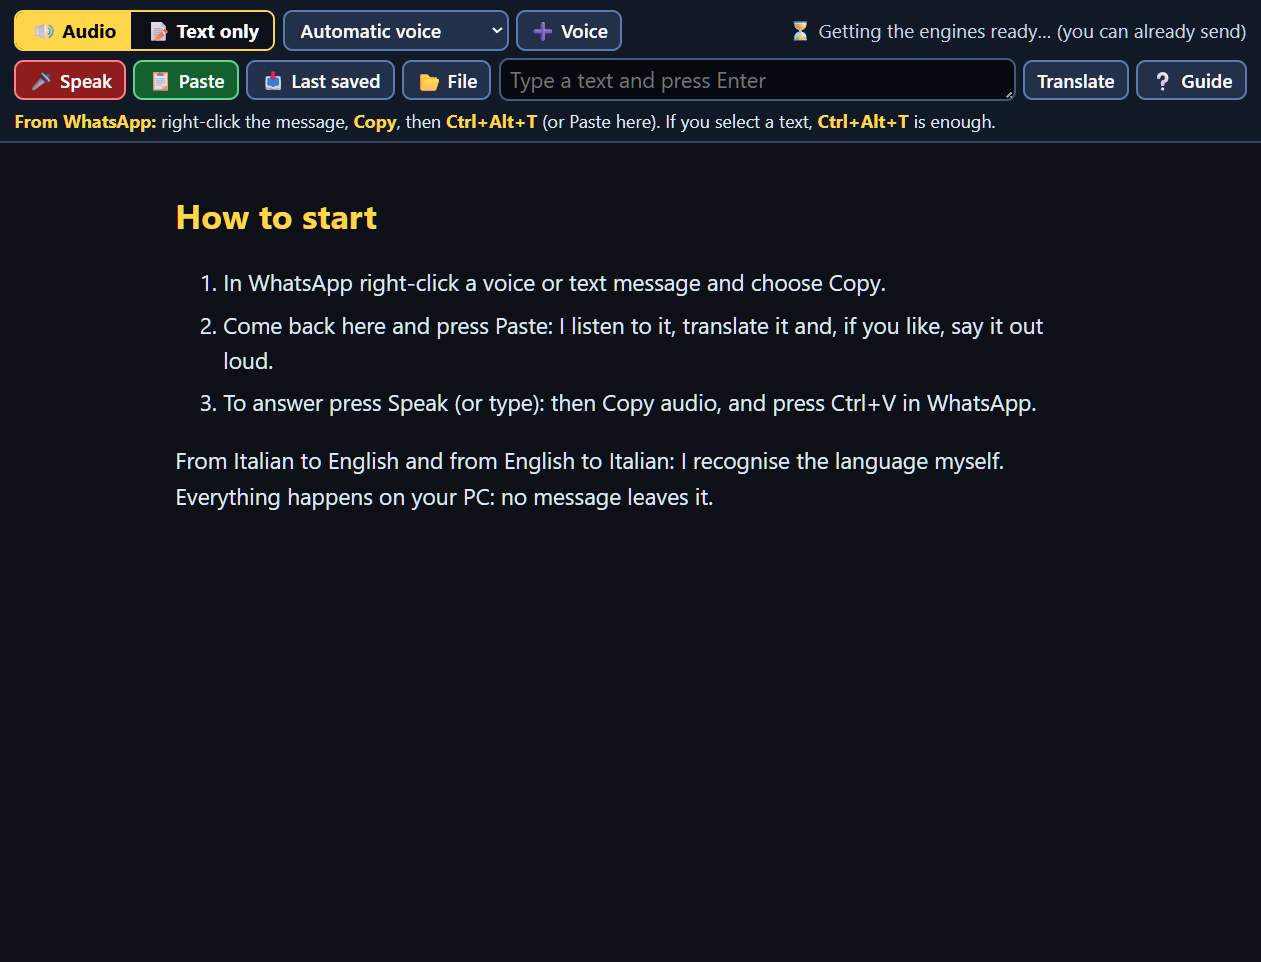
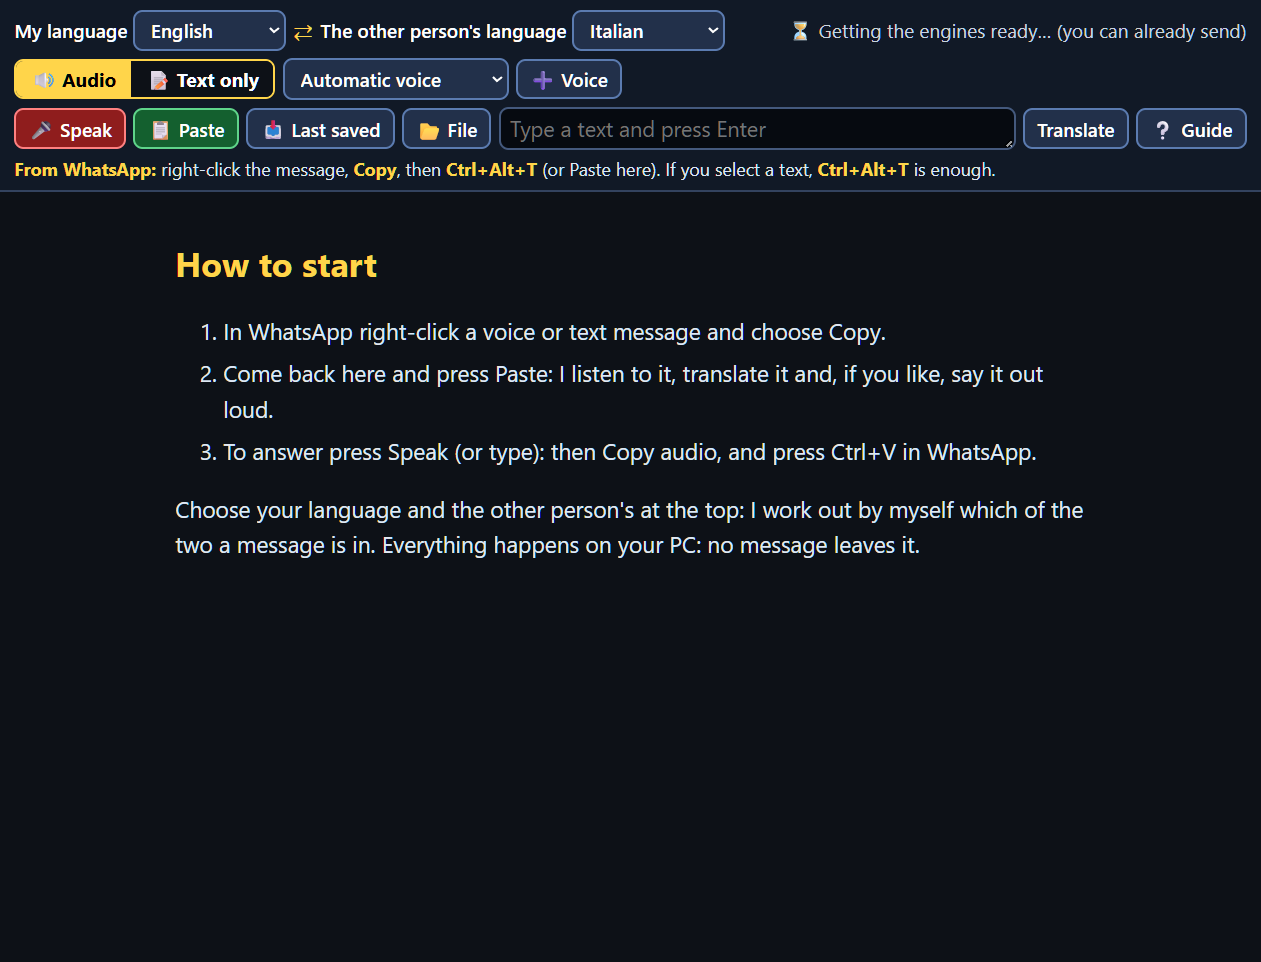
Guida e pagina per la versione 1.1.0

Changed region(s): [[0.0, 0.0, 0.9897, 0.4366], [0.1237, 0.4678, 0.8351, 0.5925], [0.8351, 0.5301, 0.866, 0.5613]]

diff --git a/README.md b/README.md
@@ -1,12 +1,28 @@
-# Voice Message Translator for Windows — translate WhatsApp voice messages, Italian ⇄ English, offline
+# Voice Message Translator for Windows — translate WhatsApp voice messages in 20 languages, offline
 
-**Traduce i messaggi vocali e scritti (WhatsApp, Telegram, email…) tra italiano e inglese, anche a voce. Tutto sul tuo PC, gratis.**
-**Translates voice and text messages (WhatsApp, Telegram, email…) between Italian and English, out loud too. All on your PC, free.**
+**Traduce i messaggi vocali e scritti (WhatsApp, Telegram, email…) in 20 lingue, con la voce in 10 di queste. Tutto sul tuo PC, gratis.**
+**Translates voice and text messages (WhatsApp, Telegram, email…) in 20 languages, out loud in 10 of them. All on your PC, free.**
 
 Il programma installato si chiama **Tures55 Translator**. È gratuito; il codice sorgente completo lo riceve chi fa una donazione, per uso personale.
 The installed program is called **Tures55 Translator**. It is free; donors receive the complete source code, for personal use.
 
 [![Download totali / Total downloads](https://img.shields.io/github/downloads/Tures55/voice-message-translator-windows/Tures55-Translator-Setup.exe?label=download%20totali&displayAssetName=false&style=for-the-badge&color=brightgreen)](https://github.com/Tures55/voice-message-translator-windows/releases/latest)
+
+# ⚠ ATTENZIONE: SERVONO DA 3 A 10 GB DI SPAZIO
+
+# ⚠ WARNING: 3 TO 10 GB OF SPACE NEEDED
+
+**Il programma è piccolo, ma alla prima apertura scarica sul tuo PC i modelli con cui lavora. Scegli tu, prima di scaricare:**
+**The program is small, but on first start it downloads the models it works with. You choose, before downloading:**
+
+| | 📝 SOLO TESTO / TEXT ONLY | 🔊 TESTO E VOCE / TEXT AND VOICE |
+|---|---|---|
+| **Leggera / Light** | **3,2 GB** | **5,2 GB** |
+| **Migliore / Best** | **7,2 GB** | **9,9 GB** |
+| **PC** | Va bene anche senza scheda video. / Fine without a graphics card too. | Consigliata scheda video da **8 GB** (Migliore: **12 GB**). Senza, la voce è lenta: circa un minuto. / **8 GB** graphics card recommended (Best: **12 GB**). Without one the voice is slow: about a minute. |
+
+**Poco spazio o un PC semplice? Scegli «Solo testo» e «Leggera»: la voce si può aggiungere dopo.**
+**Little space or a basic PC? Choose “Text only” and “Light”: you can add the voice later.**
 
 ## ⬇ Scarica / Download
 
@@ -39,12 +55,13 @@ Basta un clic sulla stella ⭐ in alto a destra di questa pagina: aiuta altre pe
 ## 🇮🇹 Italiano
 
 - **Copia e incolla**: in WhatsApp copi il messaggio vocale, nel traduttore premi Incolla. Oppure **Ctrl+Alt+T** da qualsiasi programma.
-- **Riconosce da solo** se il messaggio è in italiano o in inglese.
-- **Risponde con la tua voce**: parli in italiano e il messaggio esce in inglese con la tua voce, pronto da incollare nella chat.
+- **Riconosce da solo** in quale delle due lingue scelte è il messaggio.
+- **20 lingue**: italiano, inglese, spagnolo, francese, tedesco, portoghese, russo, cinese, giapponese, coreano (anche a voce); olandese, polacco, ceco, turco, indonesiano, vietnamita, arabo, persiano, hindi, thailandese (solo testo).
+- **Risponde con la tua voce**: parli nella tua lingua e il messaggio esce nell'altra con la tua voce, pronto da incollare nella chat.
 - **Rilettura di controllo**: la traduzione viene riletta nella tua lingua, così vedi se il senso è giusto.
 - **Solo testo** o anche audio, come preferisci.
 - **Privato**: i messaggi non escono dal PC. Internet serve solo per scaricare i modelli e gli aggiornamenti.
-- Scritte grandi e contrasto alto, ingrandibili. Interfaccia e guida in italiano e inglese.
+- Scritte grandi e contrasto alto, ingrandibili. Interfaccia e guida in italiano, inglese, spagnolo, francese, tedesco e portoghese.
 
 Usa solo la tua voce o quella di chi ti ha dato il permesso. Le traduzioni sono automatiche e possono contenere errori. Tures55 Translator non è fatto da WhatsApp o Meta, né è collegato a loro.
 
@@ -58,12 +75,13 @@ Se ti è utile puoi sostenerlo: https://buymeacoffee.com/tures1955
 ## 🇬🇧 English
 
 - **Copy and paste**: copy the voice message in WhatsApp, press Paste in the translator. Or **Ctrl+Alt+T** from any program.
-- **Works out by itself** whether the message is Italian or English.
-- **Answers in your own voice**: you speak English and the message comes out in Italian in your voice, ready to paste in the chat.
+- **Works out by itself** which of the two chosen languages the message is in.
+- **20 languages**: Italian, English, Spanish, French, German, Portuguese, Russian, Chinese, Japanese, Korean (voice too); Dutch, Polish, Czech, Turkish, Indonesian, Vietnamese, Arabic, Persian, Hindi, Thai (text only).
+- **Answers in your own voice**: you speak your language and the message comes out in the other one in your voice, ready to paste in the chat.
 - **Check reading**: the translation is read back in your language, so you can see whether the meaning is right.
 - **Text only** or audio too, as you prefer.
 - **Private**: messages never leave the PC. Internet is only needed to download the models and the updates.
-- Big text and high contrast, can be enlarged. Interface and guide in Italian and English.
+- Big text and high contrast, can be enlarged. Interface and guide in Italian, English, Spanish, French, German and Portuguese.
 
 Only use your own voice or that of someone who gave you permission. Translations are automatic and may contain mistakes. Tures55 Translator is not made by, or connected with, WhatsApp or Meta.
 

diff --git a/GUIDE.md b/GUIDE.md
@@ -9,6 +9,7 @@
 - [Answering](#answering)
 - [The Ctrl+Alt+T shortcut](#the-ctrlaltt-shortcut)
 - [Audio or Text only](#audio-or-text-only)
+- [The languages of the messages](#the-languages-of-the-messages)
 - [The voices](#the-voices)
 - [Checking the translation](#checking-the-translation)
 - [WhatsApp by itself](#whatsapp-by-itself)
@@ -28,7 +29,7 @@
 
 ## What it does
 
-It listens to a voice message or reads a text message, works out whether it is Italian or English, translates it into the other language and, if you like, also says it out loud. It works with WhatsApp, Telegram, email and any program you can copy from.
+It listens to a voice message or reads a text message, works out which of the two chosen languages it is in, translates it into the other one and, in ten languages, also says it out loud if you like. It works with WhatsApp, Telegram, email and any program you can copy from.
 
 Everything happens on your PC: no message is sent over the internet.
 
@@ -36,7 +37,9 @@ Everything happens on your PC: no message is sent over the internet.
 
 ## The first time
 
-Choose the quality (the program tells you which one suits your PC), whether you also want audio, and the folder for the models. Then press Download: if you stop it or the internet drops, it resumes from where it was.
+WARNING about space: the program downloads its models once. Text only: 3.2 GB (light) or 7.2 GB (best). Text and voice: 5.2 GB (light) or 9.9 GB (best).
+
+Choose between Text only and Text and voice, then the quality (the program tells you which suits your PC best) and the folder for the models. Then press Download: if you stop it or the connection drops, it resumes where it was.
 
 On the first opening and after an update the engines take a little longer to get ready: you can already send messages, they wait in the queue.
 
@@ -77,6 +80,14 @@ If another program already uses these keys, the translator takes others: you see
 The yellow switch at the top decides what you get for new messages, and it is remembered.
 
 Text only is faster and frees the graphics card. If you then need the voice of one message, press Make the audio.
+
+## The languages of the messages
+
+At the top you choose your language and the other person's: they are remembered.
+
+The translation can also be spoken in ten languages: Italian, English, Spanish, French, German, Portuguese, Russian, Chinese, Japanese and Korean. In the other languages it is text only: voice messages are still listened to and translated, but the answer is a text to copy. With one language that has a voice and one that does not, you get the voice only when translating into the first one.
+
+If a short message is taken for the other language, press Other way.
 
 ## The voices
 
@@ -119,7 +130,7 @@ After 10 minutes without work the engines switch off and free the memory; they s
 
 Ctrl and + makes it bigger, Ctrl and - smaller, Ctrl and 0 goes back to normal. The size is remembered.
 
-The language of the program (Italian or English) is changed from the Translator menu, Language.
+The language of the program is changed from the Translator menu, Language.
 
 ## Your messages
 

diff --git a/GUIDA.md b/GUIDA.md
@@ -9,6 +9,7 @@
 - [Rispondere](#rispondere)
 - [La scorciatoia Ctrl+Alt+T](#la-scorciatoia-ctrlaltt)
 - [Audio oppure Solo testo](#audio-oppure-solo-testo)
+- [Le lingue dei messaggi](#le-lingue-dei-messaggi)
 - [Le voci](#le-voci)
 - [Controllare la traduzione](#controllare-la-traduzione)
 - [WhatsApp in automatico](#whatsapp-in-automatico)
@@ -28,7 +29,7 @@
 
 ## Cosa fa
 
-Ascolta un messaggio vocale o legge un messaggio scritto, capisce da solo se è in italiano o in inglese, lo traduce nell'altra lingua e, se vuoi, te lo dice anche a voce. Va bene per WhatsApp, Telegram, le email e qualsiasi programma da cui si può copiare.
+Ascolta un messaggio vocale o legge un messaggio scritto, capisce da solo in quale delle due lingue scelte è, lo traduce nell'altra e, in dieci lingue, se vuoi te lo dice anche a voce. Va bene per WhatsApp, Telegram, le email e qualsiasi programma da cui si può copiare.
 
 Tutto avviene sul tuo PC: nessun messaggio viene mandato su internet.
 
@@ -36,7 +37,9 @@ Tutto avviene sul tuo PC: nessun messaggio viene mandato su internet.
 
 ## La prima volta
 
-Scegli la qualità (il programma ti dice quale va meglio per il tuo PC), se vuoi anche l'audio, e la cartella dove mettere i modelli. Poi premi Scarica: se lo fermi o cade internet, riprende da dove era.
+ATTENZIONE allo spazio: il programma scarica i suoi modelli una volta sola. Solo testo: 3,2 GB (Leggera) o 7,2 GB (Migliore). Testo e voce: 5,2 GB (Leggera) o 9,9 GB (Migliore).
+
+Scegli tra Solo testo e Testo e voce, poi la qualità (il programma ti dice quale va meglio per il tuo PC) e la cartella dove mettere i modelli. Poi premi Scarica: se lo fermi o cade internet, riprende da dove era.
 
 Alla prima apertura e dopo un aggiornamento i motori ci mettono un po' di più a prepararsi: puoi già mandare i messaggi, aspettano in coda.
 
@@ -77,6 +80,14 @@ Se un altro programma usa già questi tasti, il traduttore ne prende altri: li v
 L'interruttore giallo in alto decide cosa avere per i messaggi nuovi, e viene ricordato.
 
 Solo testo è più veloce e libera la scheda video. Se poi ti serve la voce di un messaggio, premi Crea l'audio.
+
+## Le lingue dei messaggi
+
+In alto scegli la tua lingua e quella dell'altro: vengono ricordate.
+
+La traduzione può essere anche a voce in dieci lingue: italiano, inglese, spagnolo, francese, tedesco, portoghese, russo, cinese, giapponese e coreano. Nelle altre lingue è solo scritta: i vocali si ascoltano e si traducono lo stesso, ma la risposta è un testo da copiare. Con una lingua che ha la voce e una che non ce l'ha, la voce c'è solo quando si traduce verso la prima.
+
+Se i messaggi corti vengono presi per l'altra lingua, premi Altro verso.
 
 ## Le voci
 
@@ -119,7 +130,7 @@ Dopo 10 minuti senza lavoro i motori si spengono e liberano la memoria; si riacc
 
 Ctrl e + ingrandisce, Ctrl e - rimpicciolisce, Ctrl e 0 torna normale. La misura viene ricordata.
 
-La lingua del programma (italiano o inglese) si cambia dal menu Traduttore, Lingua.
+La lingua delle scritte del programma si cambia dal menu Traduttore, Lingua.
 
 ## I tuoi messaggi
 
